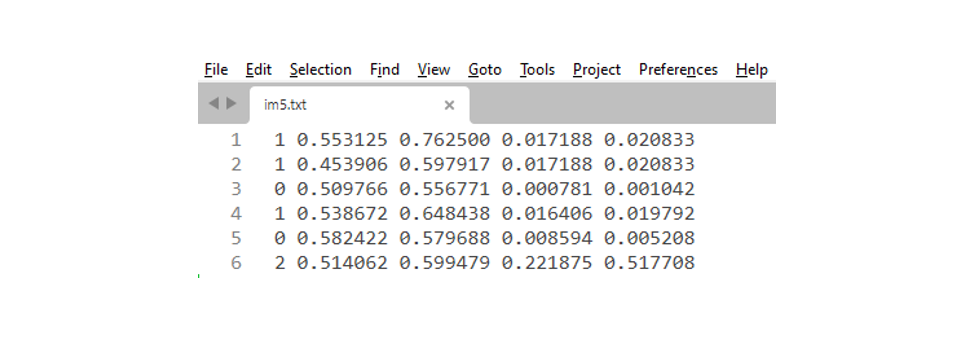
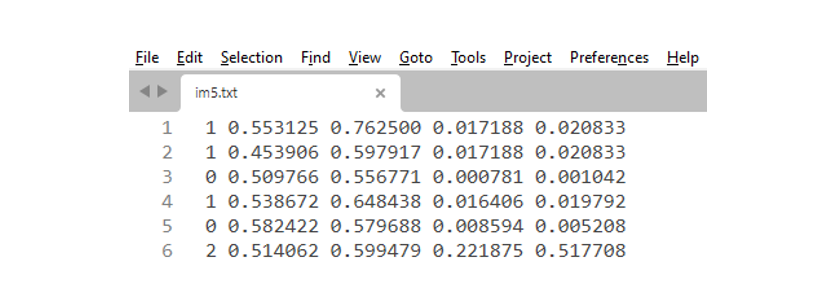
add images

diff --git a/README.md b/README.md
@@ -31,7 +31,7 @@ names: ['side_screw', 'cover_screw', 'motor']
 * Box coordinates must be in **normalized xywh** format (from 0-1). If your boxes are in pixels, divide `x_center` and `width` by image width, and `y_center` and `height` by image height.
 * Class numbers are zero-indexed (start from 0).
 
-<img src="https://github.com/LinxiQIU/2d_detection/blob/main/images/label.png" width="640" height="480">
+<img src="https://github.com/LinxiQIU/2d_detection/blob/main/images/label.png" width="830" height="300">
 
 The label file corrsponding to the image contains one motor, two side screws and three cover screws.
 
